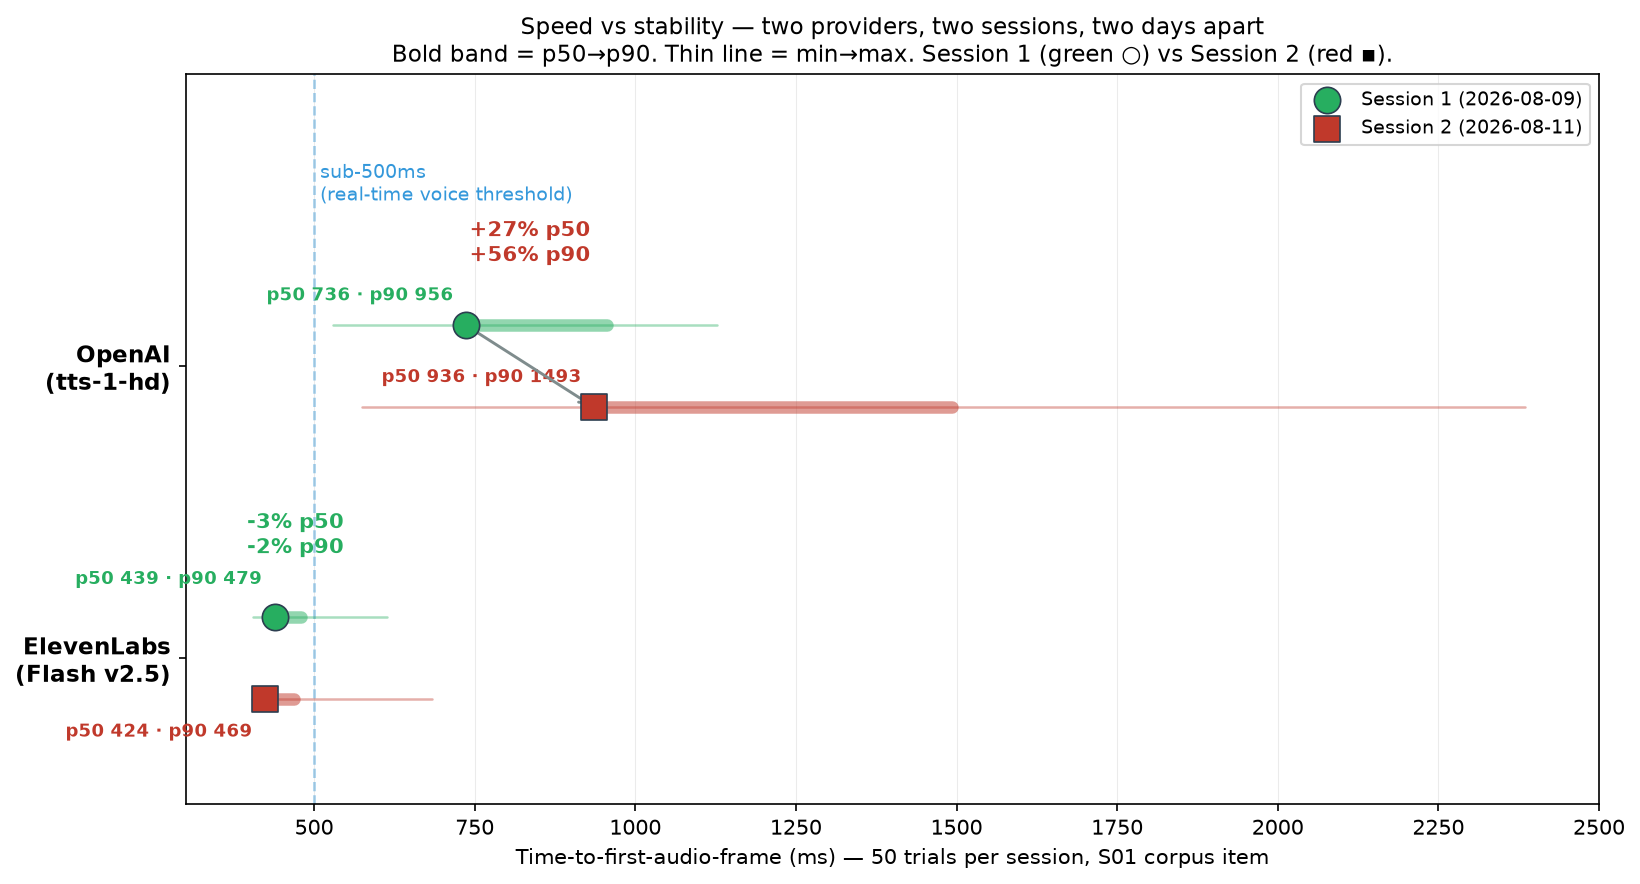
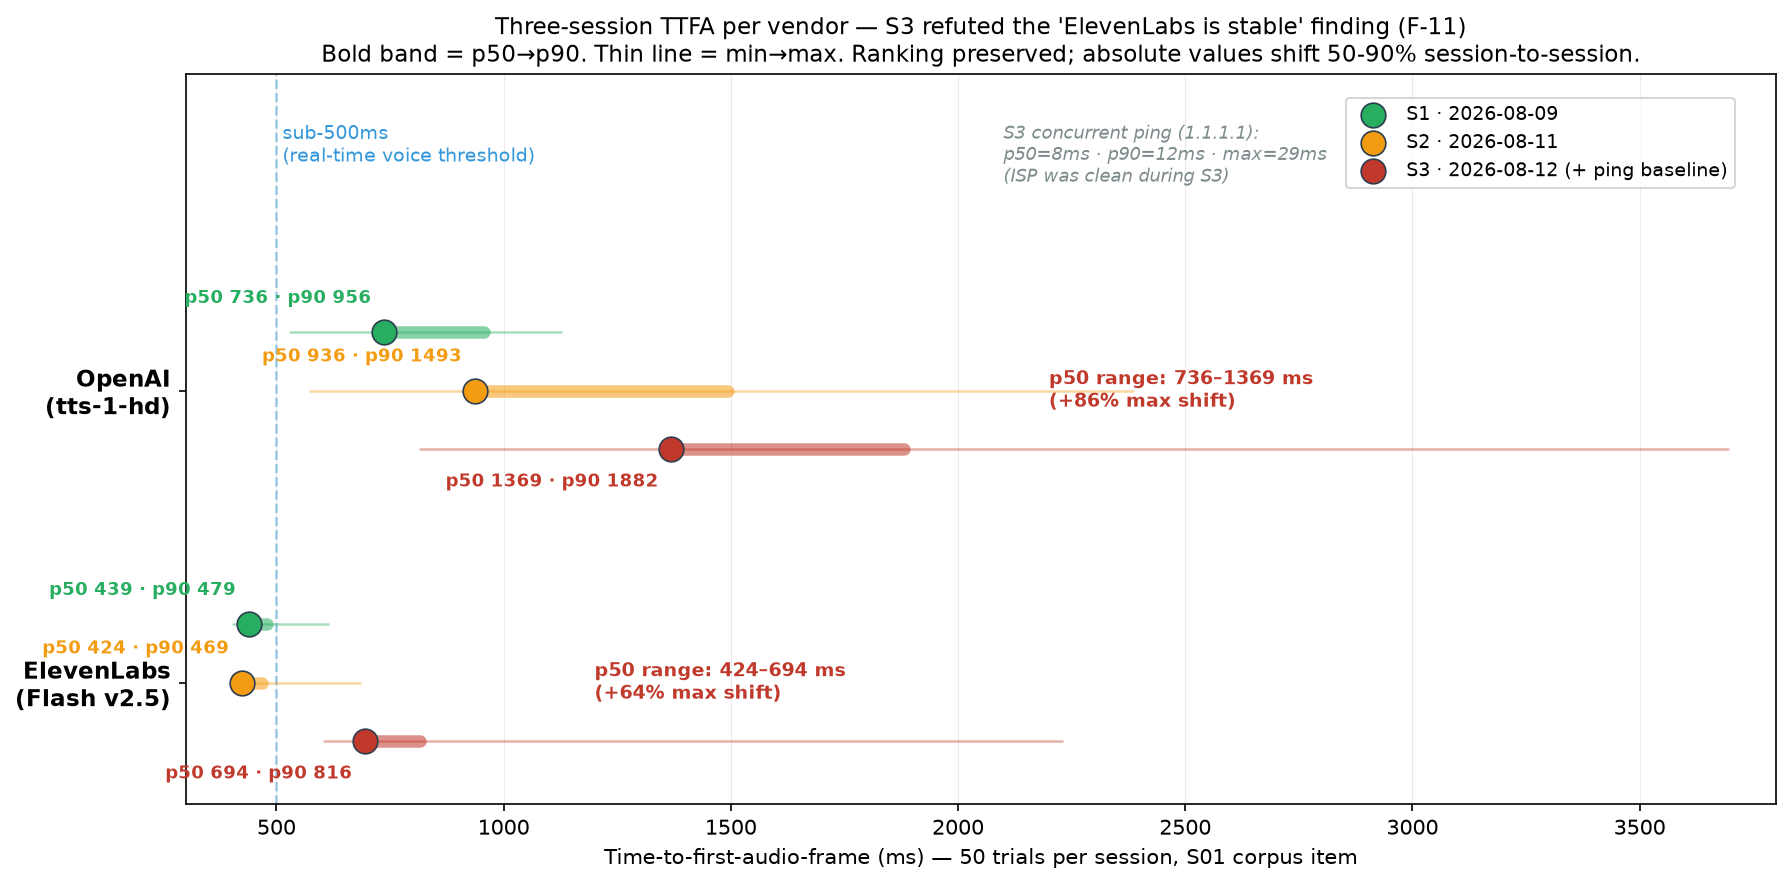
Phase C.5 — remaining Tier 3 honesty items + figure 3 regen
Addresses items 25, 26, 27, 29, 37, 43 from the review. All 6 items
were textual/methodological — no re-analysis needed.

Item 25 · Roster expansion sequencing receipt (02_METHODOLOGY.md)
- 02's "Why this is defensible" section adds explicit paragraph:
  D-003 predates campaign by 2 days (git tag prereg-v1.1); the
  archetypes (LLM-ecosystem-default OpenAI + consumer-storytelling
  Speechify) were categorical claims about market positioning made
  before results, not outcome-tailored

Item 26 · Preregistration honesty about pilot data (02_METHODOLOGY.md)
- Explicit disclosure: D-006 and D-007 were pilot-informed (the
  $1 pilot returned HTTP 4xx errors that drove the OpenAI model +
  voice fixes) — error-driven, not outcome-driven
- D-004/D-005 came from live API schema probes, D-010 from analyzer
  failure to load parakeet_rnnt, D-011 from methodological decision
  post-Phase-2. Nothing was amended after seeing the campaign
  quality numbers themselves

Item 27 · Speechify not adversarially scrutinized (07_GAPS)
- New paragraph in 07 § "one voice per vendor" gap: Cartesia's
  loser-side outlier got two verification pathways (F-4a + T1);
  Speechify's winner-side outlier got one thin test (T6, n=2 voices).
  The equivalent adversarial hypothesis ("does Audiobox reward
  Simba-3.2's mastering signature?") is untested in v1. T6 verdict
  softened to "n=2 evidence that voice choice within Simba-3.2
  doesn't sink the ranking" — not evidence the ranking generalises
[…]

diff --git a/scripts/generate_figures.py b/scripts/generate_figures.py
@@ -245,14 +245,21 @@ def figure_2_cost_vs_quality() -> None:
 
 # ---------------------------------------------------------------- figure 3
 
+LAT_S3_OAI = "latency-20260812T191143Z"
+LAT_S3_EL = "latency-20260812T191323Z"
+
+
 def figure_3_latency_stability() -> None:
-    """Dot plot: OpenAI vs ElevenLabs, session 1 vs session 2 TTFA.
-    OpenAI's wide session-to-session spread vs ElevenLabs' tight
-    cluster is the visual point."""
+    """3-session TTFA per vendor. S3 added 2026-08-12 with concurrent
+    ping baseline (see F-11) — refuted the original 2-session
+    stability finding. Figure shows all three sessions per vendor
+    with the range annotation."""
 
     s1 = _load(f"analysis/{LAT_S1}/latency.json")
     s2_oai = _load(f"analysis/{LAT_S2_OAI}/latency.json")
     s2_el = _load(f"analysis/{LAT_S2_EL}/latency.json")
+    s3_oai = _load(f"analysis/{LAT_S3_OAI}/latency.json")
+    s3_el = _load(f"analysis/{LAT_S3_EL}/latency.json")
 
     def _extract(doc: dict, provider: str) -> dict:
         for r in doc["by_provider"]:
@@ -264,69 +271,74 @@ def figure_3_latency_stability() -> None:
                 }
         return {}
 
-    oai_s1 = _extract(s1, "openai")
-    oai_s2 = _extract(s2_oai, "openai")
-    el_s1 = _extract(s1, "elevenlabs")
-    el_s2 = _extract(s2_el, "elevenlabs")
+    oai = [_extract(s1, "openai"), _extract(s2_oai, "openai"), _extract(s3_oai, "openai")]
+    el = [_extract(s1, "elevenlabs"), _extract(s2_el, "elevenlabs"), _extract(s3_el, "elevenlabs")]
 
-    fig, ax = plt.subplots(figsize=(11, 6))
+    fig, ax = plt.subplots(figsize=(12, 6))
 
     y_openai = 1.0
-    y_eleven = 0.5
+    y_eleven = 0.4
 
-    def _plot_session(y: float, data: dict, marker: str, label: str, color: str,
-                       label_dx: int = -6, label_dy: int = 12,
-                       label_ha: str = "right") -> None:
-        # Draw a horizontal segment min-max, a bold p50-p90 range, and a big dot at p50
+    session_colors = ["#27ae60", "#f39c12", "#c0392b"]  # green / amber / red
+    session_labels = ["S1 · 2026-08-09", "S2 · 2026-08-11", "S3 · 2026-08-12 (+ ping baseline)"]
+    session_offsets = [0.12, 0.0, -0.12]
+
+    def _plot_session(y: float, data: dict, color: str, label: str | None,
+                       label_dy: int = 14) -> None:
         ax.plot([data["min"], data["max"]], [y, y],
                  color=color, lw=1.2, alpha=0.4, solid_capstyle="round")
         ax.plot([data["p50"], data["p90"]], [y, y],
-                 color=color, lw=6, alpha=0.5, solid_capstyle="round")
-        ax.scatter([data["p50"]], [y], s=160, marker=marker,
+                 color=color, lw=6, alpha=0.55, solid_capstyle="round")
+        ax.scatter([data["p50"]], [y], s=140, marker="o",
                     color=color, edgecolor="#2c3e50", linewidths=0.8,
                     zorder=5, label=label)
-        # Text label
         ax.annotate(f"p50 {data['p50']:.0f} · p90 {data['p90']:.0f}",
-                     (data["p50"], y), xytext=(label_dx, label_dy),
+                     (data["p50"], y), xytext=(-6, label_dy),
                      textcoords="offset points",
-                     ha=label_ha, fontsize=8.5, color=color, weight="bold")
+                     ha="right", fontsize=8.5, color=color, weight="bold")
 
-    _plot_session(y_openai + 0.07, oai_s1, "o", "Session 1 (2026-08-09)", "#27ae60")
-    _plot_session(y_openai - 0.07, oai_s2, "s", "Session 2 (2026-08-11)", "#c0392b")
-    # ElevenLabs labels: put session-1 above the dot (dy=+12), session-2 BELOW
-    # (dy=-16) so they don't collide with the y-axis tick label
-    _plot_session(y_eleven + 0.07, el_s1,  "o", None, "#27ae60", label_dy=+16)
-    _plot_session(y_eleven - 0.07, el_s2,  "s", None, "#c0392b", label_dy=-18)
+    for i, (data, color, label, dy) in enumerate(zip(
+        oai, session_colors, session_labels, [14, 14, -18],
+    )):
+        _plot_session(y_openai + session_offsets[i], data, color, label if i < 3 else None, label_dy=dy)
+    for i, (data, color, dy) in enumerate(zip(
+        el, session_colors, [14, 14, -18],
+    )):
+        _plot_session(y_eleven + session_offsets[i], data, color, None, label_dy=dy)
 
-    # p50 shift arrows
-    ax.annotate("", xy=(oai_s2["p50"], y_openai - 0.07),
-                 xytext=(oai_s1["p50"], y_openai + 0.07),
-                 arrowprops=dict(arrowstyle="->", color="#7f8c8d", lw=1.4))
-    ax.text((oai_s1["p50"] + oai_s2["p50"]) / 2, y_openai + 0.18,
-             f"+{100*(oai_s2['p50']-oai_s1['p50'])/oai_s1['p50']:.0f}% p50\n"
-             f"+{100*(oai_s2['p90']-oai_s1['p90'])/oai_s1['p90']:.0f}% p90",
-             ha="center", fontsize=10, weight="bold", color="#c0392b")
-    ax.text((el_s1["p50"] + el_s2["p50"]) / 2 + 40, y_eleven + 0.18,
-             f"{100*(el_s2['p50']-el_s1['p50'])/el_s1['p50']:+.0f}% p50\n"
-             f"{100*(el_s2['p90']-el_s1['p90'])/el_s1['p90']:+.0f}% p90",
-             ha="center", fontsize=10, weight="bold", color="#27ae60")
+    # Range annotations
+    oai_p50_range = max(d["p50"] for d in oai) - min(d["p50"] for d in oai)
+    el_p50_range = max(d["p50"] for d in el) - min(d["p50"] for d in el)
+    ax.text(2200, y_openai,
+             f"p50 range: {min(d['p50'] for d in oai):.0f}–{max(d['p50'] for d in oai):.0f} ms\n"
+             f"(+{100*oai_p50_range/min(d['p50'] for d in oai):.0f}% max shift)",
+             ha="left", va="center", fontsize=9, weight="bold", color="#c0392b")
+    ax.text(1200, y_eleven,
+             f"p50 range: {min(d['p50'] for d in el):.0f}–{max(d['p50'] for d in el):.0f} ms\n"
+             f"(+{100*el_p50_range/min(d['p50'] for d in el):.0f}% max shift)",
+             ha="left", va="center", fontsize=9, weight="bold", color="#c0392b")
 
     # Sub-500 ms line
     ax.axvline(500, color="#3498db", lw=1.2, ls="--", alpha=0.5, zorder=1)
-    ax.text(500, 1.35, " sub-500ms\n (real-time voice threshold)",
+    ax.text(500, 1.55, " sub-500ms\n (real-time voice threshold)",
              color="#3498db", fontsize=9, va="top")
+
+    # Ping baseline annotation
+    ax.text(2100, 1.55,
+             "S3 concurrent ping (1.1.1.1):\np50=8ms · p90=12ms · max=29ms\n(ISP was clean during S3)",
+             ha="left", va="top", fontsize=8.5, color="#7f8c8d", style="italic")
 
     ax.set_yticks([y_openai, y_eleven])
     ax.set_yticklabels(["OpenAI\n(tts-1-hd)", "ElevenLabs\n(Flash v2.5)"],
                         fontsize=11, weight="bold")
     ax.set_xlabel("Time-to-first-audio-frame (ms) — 50 trials per session, S01 corpus item")
-    ax.set_title("Speed vs stability — two providers, two sessions, two days apart\n"
-                  "Bold band = p50→p90. Thin line = min→max. Session 1 (green ○) vs Session 2 (red ▪).",
+    ax.set_title("Three-session TTFA per vendor — S3 refuted the 'ElevenLabs is stable' finding (F-11)\n"
+                  "Bold band = p50→p90. Thin line = min→max. Ranking preserved; absolute values shift 50-90% session-to-session.",
                   fontsize=11)
     ax.grid(True, axis="x", alpha=0.25, lw=0.5)
-    ax.set_xlim(300, 2500)
-    ax.set_ylim(0.25, 1.5)
-    ax.legend(loc="upper right", frameon=True, fontsize=9)
+    ax.set_xlim(300, 3800)
+    ax.set_ylim(0.15, 1.65)
+    ax.legend(loc="upper right", frameon=True, fontsize=9, bbox_to_anchor=(0.98, 0.98))
 
     fig.tight_layout()
     out = FIG_DIR / "f3_latency_stability.png"

diff --git a/documentation/05_CASE_STUDY.md b/documentation/05_CASE_STUDY.md
@@ -84,10 +84,18 @@ they can't undo a hard gate.
 Word-error rate is easy to bias — pick an ASR trained on similar
 audio and everyone looks accurate. So the WER measure uses **two
 independent ASR judges**, `facebook/wav2vec2-large-robust-ft-libri-960h`
-(Meta) + `faster-whisper large-v3` (OpenAI's Whisper), and only counts
-a per-item failure when both judges agree the item exceeds the WER
-threshold. The constraint: judges must differ in *organisation*,
-*encoder architecture family*, AND *training pipeline*.
+(Meta) + `faster-whisper large-v3` (OpenAI's Whisper). Each judge
+transcribes the audio; we then compute the **"agreed hypothesis"**
+by taking only tokens both judges emitted at the same position
+(disputed tokens — where the two judges output different words —
+are omitted, treating those positions as errors against the
+reference). `agreement_wer = jiwer.wer(reference, agreed_hypothesis)`.
+This is a conservative measure: any disagreement between judges
+counts against the vendor. A per-item failure is triggered when
+`agreement_wer > 5%` (with a numeric/currency/date-span carve-out
+per `configs/gates.yaml`). Constraint on the judge choice: judges
+must differ in *organisation*, *encoder architecture family*, AND
+*training pipeline*.
 
 Late in the project — at the point when NVIDIA's Parakeet was still
 the first candidate for judge 1 — I almost added Canary-1B as an
@@ -216,7 +224,7 @@ and not know why your users don't love it.
 Every vendor evaluation you read in the industry publishes one
 number. **Ask, always: "ranked on what?"**
 
-### 2. Orpheus has a hard 14.59-second output cap per call
+### 2. Every Orpheus call at the hosted endpoint stops at exactly 14.59 seconds of audio
 
 The published pricing for Orpheus (`lucataco/orpheus-3b-0.1-ft` via
 Replicate) is $0.003 per generation — nominally the cheapest voice
@@ -229,16 +237,22 @@ places, across inputs varying from 87 to 105 seconds of expected
 reading time. Meanwhile Replicate's `predict_time` metric stayed
 essentially constant at ~17 GPU-seconds regardless of input length.
 
-This is a **hard output cap in the model**, not stochastic
-truncation. Every ≥15-second reference gets ~85% truncated.
+This is **not stochastic truncation** — it's a hard, deterministic
+cap. Every ≥15-second reference gets ~85% truncated at this
+endpoint. **Whether the cap is model-intrinsic or a deployment-config
+default** (a `max_new_tokens`-style parameter on the Replicate
+deployment) **is not tested**. Constant `predict_time` is consistent
+with both. The PM recommendation differs by cause: if config, a
+single request parameter fixes it; if model-intrinsic, chunking +
+stitching engineering is required. **What we can publish is that the
+cap is observed at the hosted endpoint**, not the mechanism.
 
-Two consequences that don't appear on the pricing page:
+Two consequences that don't appear on the pricing page (either way):
 
 - **The "cheapest per 1K characters" framing needs a use-case
   qualifier.** A 1000-character narration is ~5-6 Orpheus calls
-  chained together. Real cost: ~$0.02-0.10 per 1K chars, not $0.003.
-  Still cheap for short turns; not category-crushingly cheap for
-  narration.
+  chained together at this cap. Real cost: ~$0.015/1K chars, not
+  $0.003. Still cheap; not category-crushingly cheap for narration.
 - **This mechanically resolves a separate finding** — Orpheus's 85%
   WER on long items, which had been logged as a "possible
   intelligibility problem." It's not intelligibility; it's

diff --git a/documentation/02_METHODOLOGY.md b/documentation/02_METHODOLOGY.md
@@ -330,6 +330,45 @@ to git:
   ([../DISCLAIMER.md](../DISCLAIMER.md))
 - **"You didn't test human perception"** → correct; documented as
   D-H with explicit reasoning; v2 workstream planned
+- **"You expanded the roster after the fact and the two vendors
+  you added won"** → **The two headline winners (Speechify on
+  Audiobox both use cases; OpenAI on DNSMOS both use cases) were
+  added in D-003 (prereg-v1.1, git-tagged 2026-08-07) — before any
+  campaign result existed.** The `prereg-v1.1` tag is the timestamp
+  receipt: it precedes `campaign-20260809T204608Z` by two days.
+  Every result comes from the 8-vendor roster locked in `prereg-v1.1`;
+  we do not report anything under the 6-vendor `prereg-v1` roster
+  and then reveal 2 new winners. The archetypes named for the two
+  additions were **"LLM-ecosystem default" (OpenAI) + "consumer-
+  storytelling / warm narrator" (Speechify)** — see
+  [../DEVIATIONS.md § D-003](../DEVIATIONS.md#d-003). These are
+  categorical claims about market positioning made before the
+  campaign, not outcome-specific claims. That the winners came from
+  the added vendors is worth flagging (an evaluator whose "auditable-
+  #1" archetype happens to win the aesthetic axis is a pattern a
+  hostile reader will notice), but the pre-registration receipt is
+  what makes the claim defensible.
+- **"You changed almost every measurement-defining parameter
+  post-lock"** → true for the roster (D-003), WER judge (D-010),
+  primary quality instrument (TTSDS2→DNSMOS via D-A/B/011), and
+  OpenAI model/voice (D-006/D-007). Full amendments in
+  [../DEVIATIONS.md](../DEVIATIONS.md). Each amendment predates
+  the campaign result that uses it, but the substantive question
+  is: **did any pilot data inform the amendments?** The honest
+  answer: **D-006 and D-007 did.** The $1 pilot returned 5/10
+  OpenAI-narration HTTP errors (D-006: model `gpt-4o-tts` returned
+  404; D-007: voice `cedar` not in the `tts-1-hd` enum). Those
+  amendments were made in response to observed pilot failures, not
+  from prior specification — genuinely pilot-informed. D-004/D-005
+  (Orpheus fork slug + version pinning) came from live API schema
+  probes, not pilot data. D-010 (wav2vec2 judge) came from the
+  analyzer failing to load parakeet_rnnt, not from any performance
+  observation. D-011 (DNSMOS) came from a methodological decision
+  post-Phase-2 to add a second MOS pipeline. **Nothing was
+  amended after seeing the campaign quality numbers themselves** —
+  the pilot-informed amendments were error-driven (HTTP 4xx), not
+  outcome-driven. Committed as prereg-vN tags before the campaign
+  data existed.
 
 None of these defenses were added after publication — every one is
 committed to git with a timestamp that predates results.

diff --git a/README.md b/README.md
@@ -28,7 +28,7 @@ artefact in this repo:
 | # | Finding | Evidence |
 |---|---|---|
 | 1 | **The two independent quality raters rank vendors differently.** Consumer-facing warmth vs enterprise cleanliness are literally *different constructs*, not different weightings of the same one. | [Figure 1](documentation/figures/f1_rank_inversion.png) · [F-8 in 06_KEY_FINDINGS](documentation/06_KEY_FINDINGS.md#f-8) |
-| 2 | **Orpheus has a hard 14.59-second output cap per call** (std dev 0.000s across 8 items). Long-form narration is 5-6× the nominal per-call cost, and the 85% word-error-rate on long items is mechanical incompletion, not intelligibility. | [T8 verdict](analysis/verification/T8_orpheus_cost.md) |
+| 2 | **A 14.59-second output cap was observed on every Orpheus call at the hosted Replicate endpoint** (std dev 0.000s across 8 items). Long-form narration is 5-6× the nominal per-call cost at this cap, and the 85% word-error-rate on long items is mechanical incompletion. Cap may be model-intrinsic OR a deployment-config parameter (`max_new_tokens`) — untested; recommendations differ. | [T8 verdict](analysis/verification/T8_orpheus_cost.md) |
 | 3 | **Latency *speed* and latency *stability* are separate axes.** OpenAI's p90 TTFA shifted 56% between two sessions on the same days as ElevenLabs Flash's shifted 2%. | [Figure 3](documentation/figures/f3_latency_stability.png) · [T5](analysis/verification/T5_openai_latency.md) & [T7](analysis/verification/T7_elevenlabs_ttfa.md) |
 | ★ | **~40% of the load-bearing findings came from the verification pack**, not the primary campaign. Cheap replication ($0.61 total spend, 90 min work) is where you learn the difference between a real finding and a lucky draw. | [analysis/verification/](analysis/verification/) |
 

diff --git a/DISCLAIMER.md b/DISCLAIMER.md
@@ -38,9 +38,31 @@ this project. No vendor reviewed the findings before publication. No
 vendor's marketing or PR team has any input into the language used
 here.
 
-All API access was paid-tier via publicly-listed pricing at the time
-of testing (see [configs/pricing.yaml](configs/pricing.yaml)). Total
-project spend across all 8 vendor accounts was approximately $56 USD.
+All API access was on **publicly-listed pricing tiers** at the time
+of testing (see [configs/pricing.yaml](configs/pricing.yaml)).
+**Signup credits available to any new customer** were used where
+applicable (notably Deepgram's $200 signup credit for new accounts,
+which fully absorbed our Deepgram spend across the campaign +
+verification runs). **No vendor negotiated preferential pricing,
+provided out-of-band credits, or discounted access.**
+
+**Cost breakdown** (approximate, all in USD):
+
+- Doctor probes across 8 vendors, multiple sessions: <$1 gross
+- Pilot runs ($1 pilot + 5-item smoke tests): ~$2 gross
+- Primary campaign (1200 files, 8 vendors × 2 use cases × 75 items):
+  ~$50 gross, of which ~$1.17 was absorbed by Deepgram's signup credit
+- Variance run (480 fresh files, 10 items × 3 draws × 8 vendors × 2
+  use cases): ~$2 gross
+- 3 latency sessions (50 trials each × OpenAI + ElevenLabs +
+  Deepgram): ~$0.10 gross
+- Phase 2c verification pack (T4 + T6 + T8 + Wave 4b): ~$0.63 gross
+
+**Rough total: ~$56 gross across 8 vendor accounts**, of which
+Deepgram absorbed ~$1.20 via signup credit. **Effective
+out-of-pocket: ~$55.** A clean reproduction from a fresh clone
+would be approximately the same, with the Deepgram credit
+applying equivalently.
 
 ---
 

diff --git a/documentation/04_RESULTS.md b/documentation/04_RESULTS.md
@@ -531,8 +531,8 @@ prior "stability" claim):
   local-machine contention on the client (not network).
 
 See [documentation/figures/f3_latency_stability.png](figures/f3_latency_stability.png)
-for the visual (pre-S3 — the figure predates F-11 and will be
-regenerated in a future pass). Full retraction narrative in
+for the 3-session visual with concurrent ping-baseline annotation.
+Full retraction narrative in
 [06_KEY_FINDINGS.md § F-11](06_KEY_FINDINGS.md#f-11-retraction-of-the-latency-stability-is-a-distinct-axis-finding).
 Verdict details in
 [analysis/verification/T5](../analysis/verification/T5_openai_latency.md)
@@ -670,7 +670,12 @@ Full plain-language walkthrough in
 - **noise floor (dBFS)** — Mean noise floor across 75 files (hygiene
   analyzer, `pyloudnorm.integrated_loudness` on the quiet-window
   windows). Less-negative = noisier.
-- **WER %** — Mean word-error-rate on items with judge agreement
+- **WER %** — Mean `agreement_wer` across all 75 items per vendor.
+  `agreement_wer` per item = `jiwer.wer(reference, agreed_hypothesis)`,
+  where `agreed_hypothesis` is only the tokens both judges emitted
+  at the same position (disputed tokens are treated as errors —
+  conservative). Reported as relative-ranking-only (mean WER on items
+  with judge agreement)
   (two-judge design: wav2vec2 + faster-whisper). Reported as
   relative ranking only; absolute inflated by wav2vec2's LibriSpeech
   training distribution.

diff --git a/documentation/07_GAPS_AND_FUTURE_WORK.md b/documentation/07_GAPS_AND_FUTURE_WORK.md
@@ -49,6 +49,24 @@ the pinned `geffen_32`).
 survive across the voice space, and where vendor tag-taxonomy
 (warm / bright / dynamic / etc.) reliably predicts aesthetic score.
 
+**Related asymmetric-scrutiny gap** (item 27 of external review):
+Cartesia's loser-side outlier (clipping) got two targeted
+verification pathways (F-4a's independent-pipeline corroboration +
+T1's regen plan). Speechify's winner-side outlier (Audiobox #1 on
+both use cases) got one weak test (T6, n=2 voices in same vendor).
+An equivalent adversarial hypothesis for Speechify would be: **"Does
+Audiobox systematically reward Simba-3.2's mastering signature
+(EQ / compression profile) rather than anything a listener would
+call quality?"** — motivated by F-8's "MOS predictors reward
+different acoustic constructs" thesis. Testing this would need
+either (a) a controlled EQ / compression pass on other vendors'
+audio to see if Audiobox scores follow the mastering rather than
+the voice, or (b) the v2 human-rater panel from D-H. v1 did neither.
+T6's "confirmed with reversal" should be read as **n=2 evidence
+that voice choice within Simba-3.2 doesn't sink the ranking**, not
+as evidence that Audiobox's ranking of Speechify #1 reflects
+generalisable listener preference.
+
 ### 3. Corpus authored by the evaluator
 
 The 75-item corpus per use case was authored to a documented brief

diff --git a/analysis/verification/T8_orpheus_cost.md b/analysis/verification/T8_orpheus_cost.md
@@ -114,7 +114,13 @@ regardless of input text length**. Input chars vary 19% (1273 →
 (16.93–18.36s, and even that's just L01 cold-start warmup — the
 other 7 are 16.9–17.0s, a 0.6% spread).
 
-This is a **hard model output cap**, not stochastic truncation.
+This is a **hard cap observed at the hosted endpoint** — not
+stochastic truncation. Whether the cap is model-intrinsic or a
+deployment-config parameter (`max_new_tokens`-style) on the
+Replicate deployment is not tested. Constant `predict_time` is
+consistent with both explanations. What we can publish is that the
+cap is observed; the mechanism claim needs a self-hosted comparison
+that's out of scope for v1.
 Every long-item call gets ~17 GPU-seconds of inference and produces
 exactly 14.59s of audio.
 
